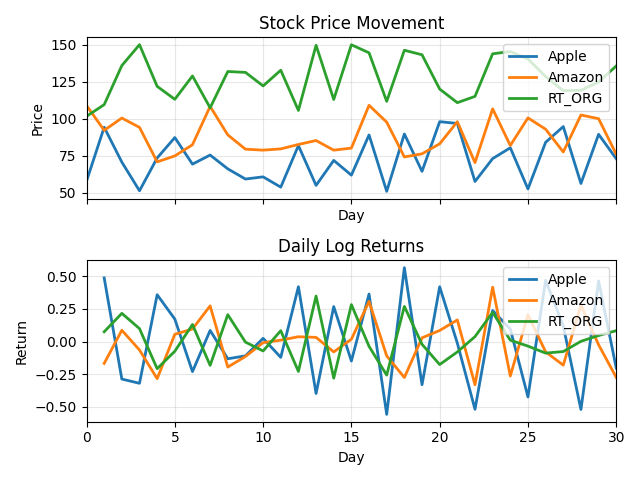
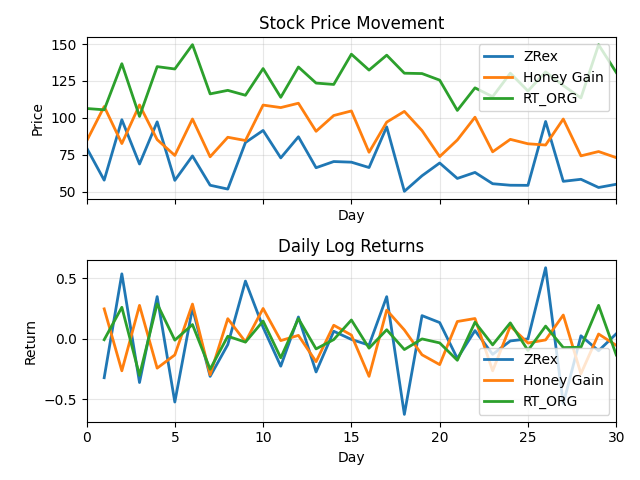
feat: update stock data generation with new stock names and remove old CSV files

diff --git a/ADS 112/Lab_Project/main.py b/ADS 112/Lab_Project/main.py
@@ -42,8 +42,8 @@ def generate_stock(name: str, alt_high: int, alt_low: int):
 
 
 # Create three sample stocks with different price ranges.
-stock1 = generate_stock("Apple", 100, 50)
-stock2 = generate_stock("Amazon", 110, 70)
+stock1 = generate_stock("ZRex", 100, 50)
+stock2 = generate_stock("Honey", 110, 70)
 stock3 = generate_stock("RT_ORG", 150, 100)
 
 

diff --git a/ADS 112/Lab_Project/README.md b/ADS 112/Lab_Project/README.md
@@ -42,7 +42,7 @@ open_price = np.random.uniform(alt_low, alt_high, size=rows)
 **What happens:**
 - `np.random.uniform(alt_low, alt_high, size=rows)` generates **30 random numbers** between `alt_low` and `alt_high`
 - Each random number represents the **opening price for one trading day**
-- For Apple: `np.random.uniform(50, 100, size=30)` → generates 30 random prices between $50 and $100
+- For ZRex: `np.random.uniform(50, 100, size=30)` → generates 30 random prices between $50 and $100
 
 **For closing prices:**
 
@@ -74,7 +74,7 @@ def generate_stock(name: str, alt_high: int, alt_low: int):
 
 | Key | Value Type | Purpose | Example Access |
 |-----|-----------|---------|-----------------|
-| `"Name"` | string | Stock identifier | `stock1["Name"]` → "Apple" |
+| `"Name"` | string | Stock identifier | `stock1["Name"]` → "ZRex" |
 | `"Data"` | 30×4 array | Days, Open, Close, Returns | `stock1["Data"]` → full table |
 | `"Std_dev"` | float | Daily volatility measure | `stock1["Std_dev"]` → 0.0089 |
 | `"Volatility"` | float | 30-day scaled volatility | `stock1["Volatility"]` → 0.0487 |
@@ -85,20 +85,20 @@ def generate_stock(name: str, alt_high: int, alt_low: int):
 ### **Step 3: Getting 3 Stocks & Storing in Variables**
 
 ```python
-stock1 = generate_stock("Apple", 100, 50)      # High=100, Low=50
-stock2 = generate_stock("Amazon", 110, 70)     # High=110, Low=70
+stock1 = generate_stock("ZRex", 100, 50)      # High=100, Low=50
+stock2 = generate_stock("Honey Gain", 110, 70)     # High=110, Low=70
 stock3 = generate_stock("RT_ORG", 150, 100)    # High=150, Low=100
 ```
 
 **What happens:**
 - Each `generate_stock()` call creates **one complete stock dictionary** with 30 days of data
-- **stock1** contains Apple's synthetic data (prices between $50-$100)
-- **stock2** contains Amazon's synthetic data (prices between $70-$110)
+- **stock1** contains ZRex's synthetic data (prices between $50-$100)
+- **stock2** contains Honey Gain's synthetic data (prices between $70-$110)
 - **stock3** contains RT_ORG's synthetic data (prices between $100-$150)
 
 **How to access the data:**
 ```python
-stock1["Name"]           # "Apple"
+stock1["Name"]           # "ZRex"
 stock1["Data"]           # 30×4 table with all prices and returns
 stock1["Data"][5, 1]     # Row 5, Column 1 (6th day's opening price)
 stock1["Volatility"]     # 0.0234 (example volatility value)
@@ -123,12 +123,12 @@ for i in [stock1, stock2, stock3]:  # Loop through all 3 stocks one by one
 
 | Loop Iteration | Variable `i` | File Created | What Gets Saved |
 |---|---|---|---|
-| 1 | `stock1` | `apple.csv` | Apple's 30 days of data |
-| 2 | `stock2` | `amazon.csv` | Amazon's 30 days of data |
+| 1 | `stock1` | `zrex.csv` | ZRex's 30 days of data |
+| 2 | `stock2` | `honey gain.csv` | Honey Gain's 30 days of data |
 | 3 | `stock3` | `rt_org.csv` | RT_ORG's 30 days of data |
 
 **Key points:**
-- `i["Name"].lower()` converts "Apple" → "apple" (lowercase filename)
+- `i["Name"].lower()` converts "ZRex" → "ZRex" (lowercase filename)
 - `write.writerow(["Days", "Open", "Close", "Returns"])` creates the CSV header
 - `write.writerows(i["Data"])` writes all 30 rows at once (Data is a 30×4 array)
 - **One loop saves all 3 CSV files automatically!**
@@ -145,7 +145,7 @@ print(f"Volatility:", i["Volatility"])
 
 **Terminal output example:**
 ```
-Stock: Apple
+Stock: ZRex
 Standard Deviation: 0.0089
 Volatility: 0.0487
 Medium Volatility - normal trading range
@@ -268,15 +268,15 @@ plt.show()                      # Display figure in a window
                   │
 ┌─────────────────▼───────────────────────────────┐
 │ 2. Call Function 3 Times                        │
-│    - stock1 = Apple (50-100)                    │
-│    - stock2 = Amazon (70-110)                   │
+│    - stock1 = ZRex (50-100)                    │
+│    - stock2 = Honey Gain (70-110)                   │
 │    - stock3 = RT_ORG (100-150)                  │
 └─────────────────┬───────────────────────────────┘
                   │
 ┌─────────────────▼───────────────────────────────┐
 │ 3. Loop & Save CSV Files                        │
 │    - for i in [stock1, stock2, stock3]:         │
-│    - Save apple.csv, amazon.csv, rt_org.csv    │
+│    - Save zrex.csv, honey gain.csv, rt_org.csv    │
 │    - Print metrics & volatility labels          │
 └─────────────────┬───────────────────────────────┘
                   │
